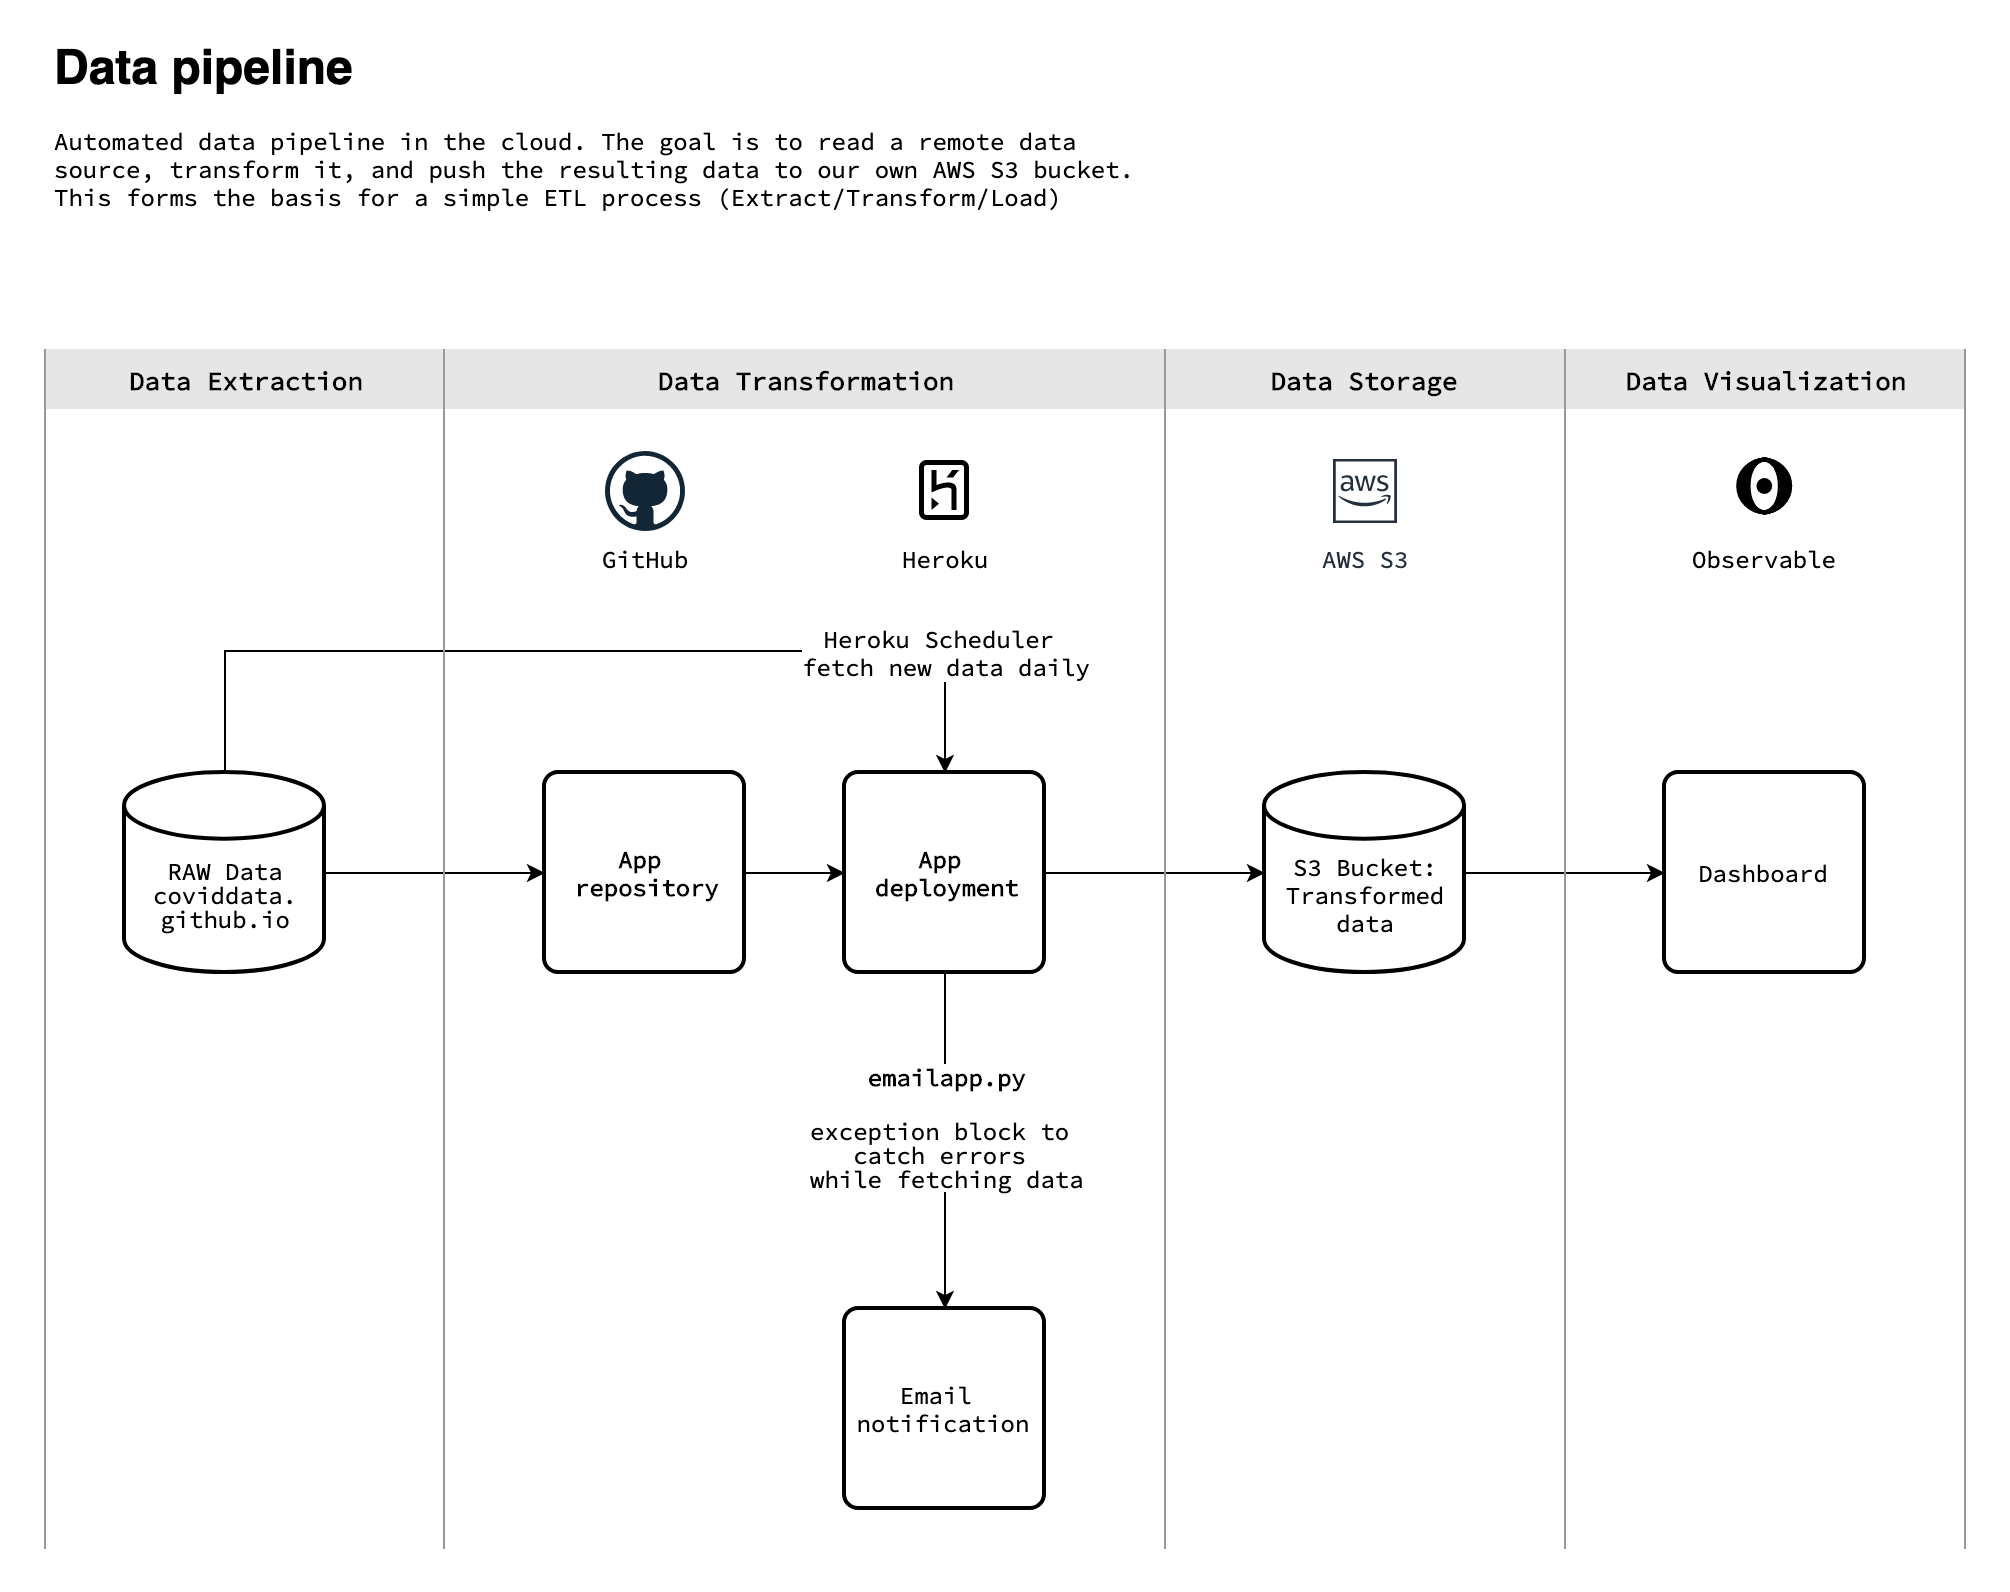
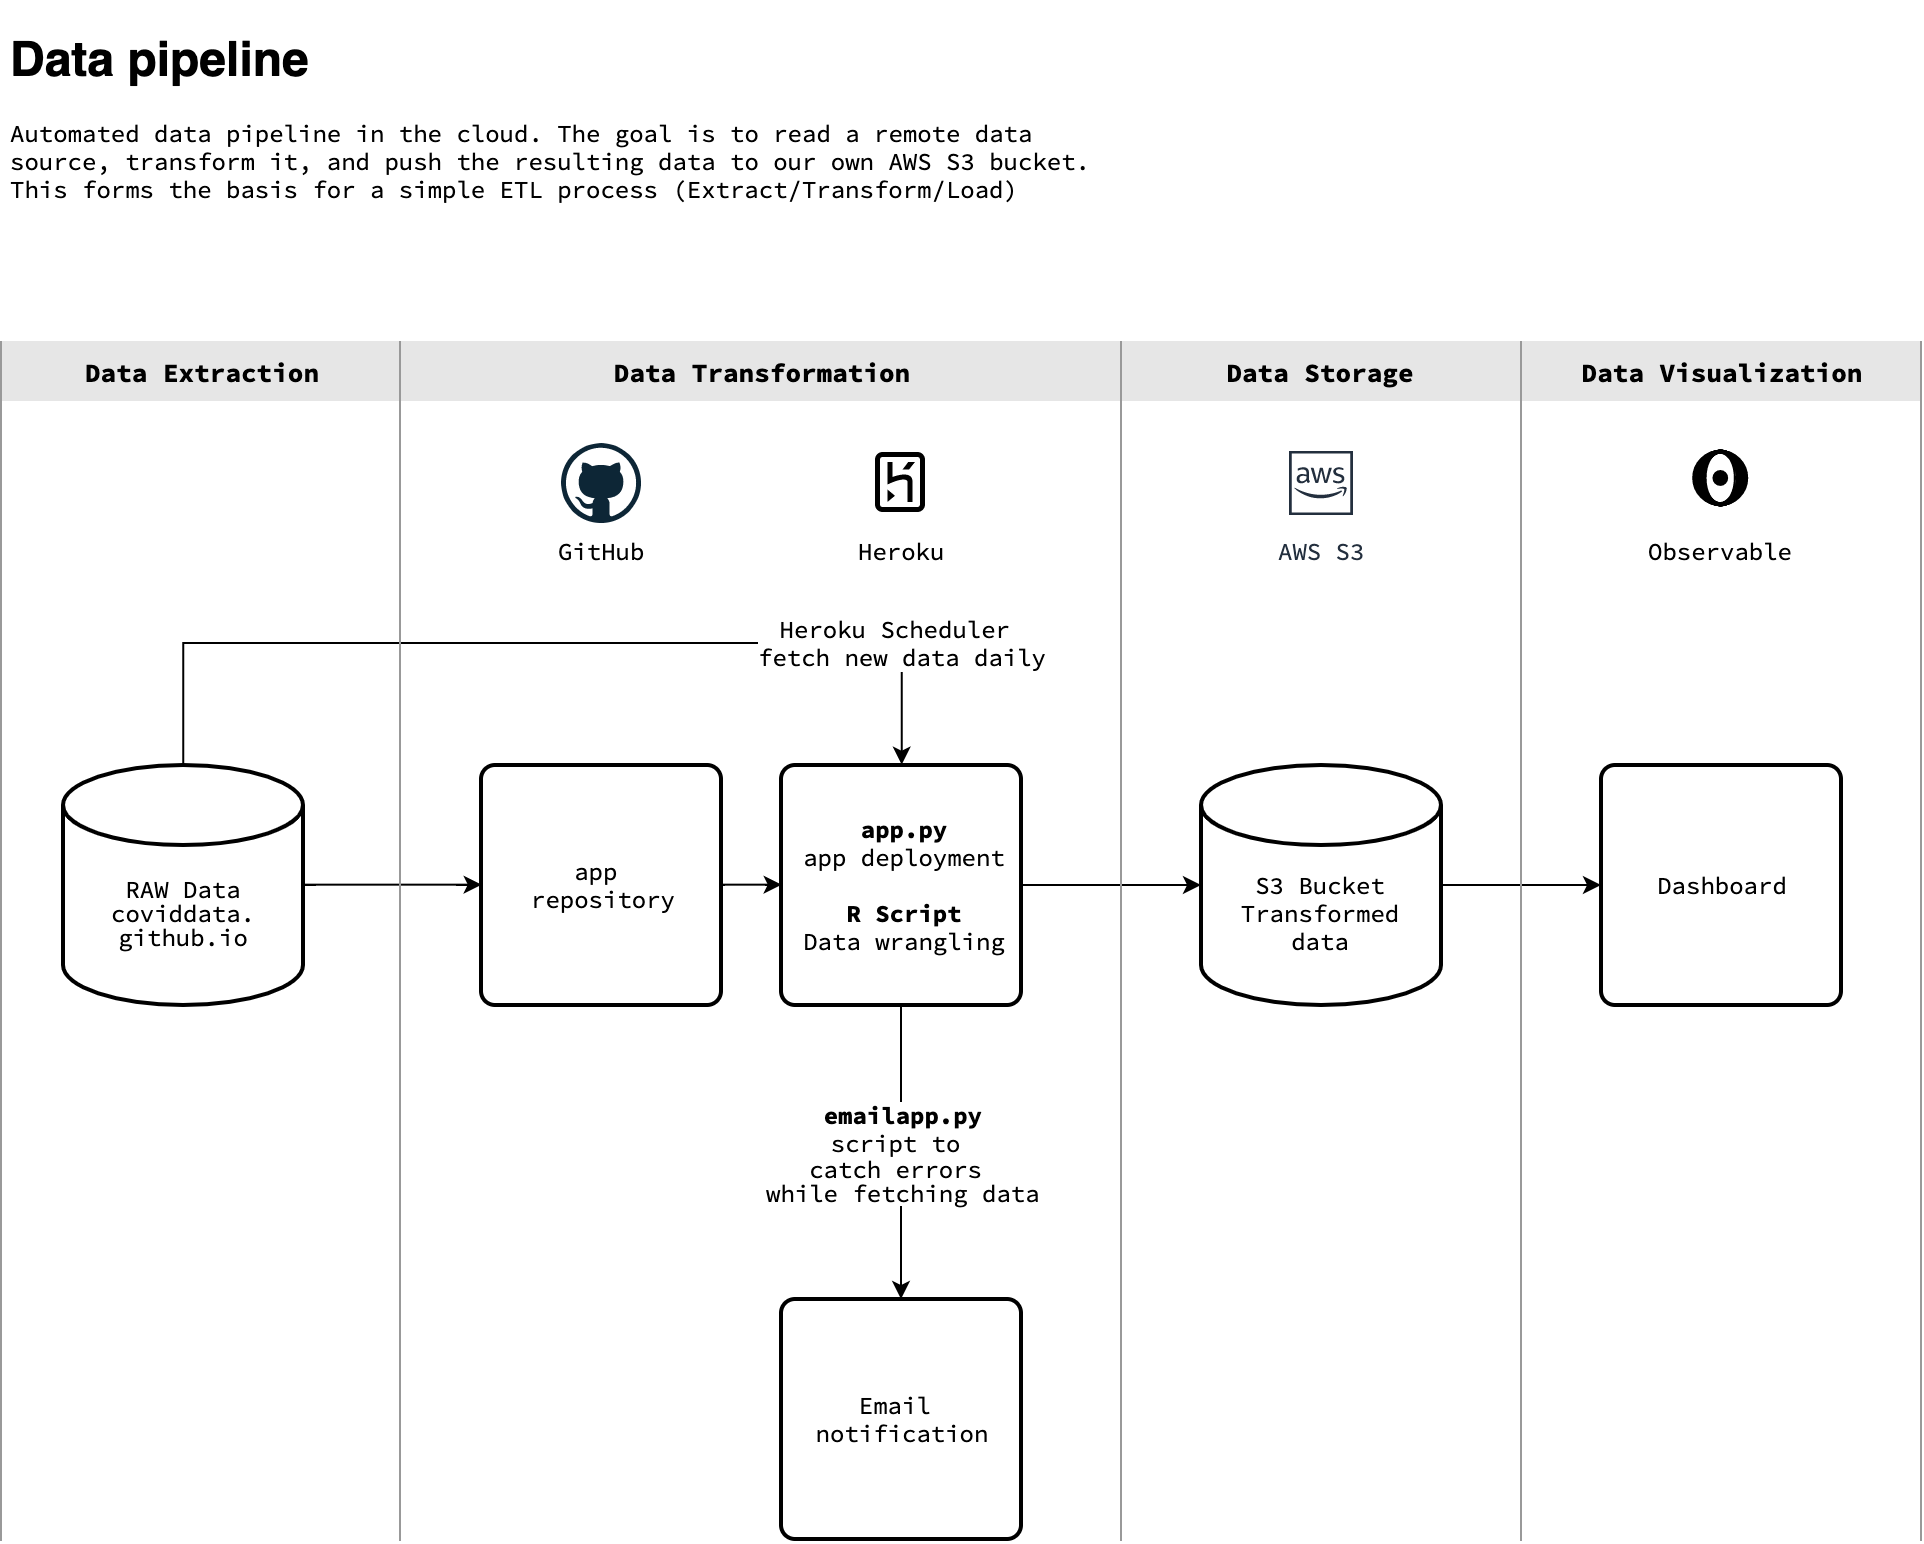
Added files

diff --git a/app.py b/app.py
@@ -1,6 +1,6 @@
-#version4 with except blocks, imports the emailapp, adding the R Script
+#version5 imports R libraries: os, subprocess / runs the R Script to transform the data [WIP]
 #stdlibs
-import logging, time, json
+import logging, time, json, os, subprocess
 
 #third-party libraries
 import requests
